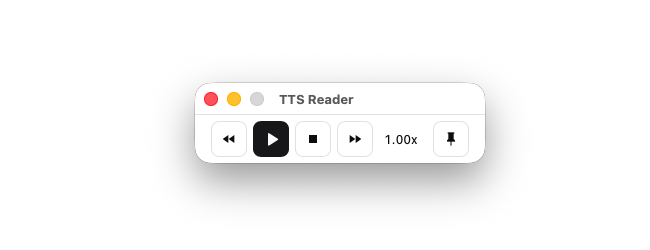
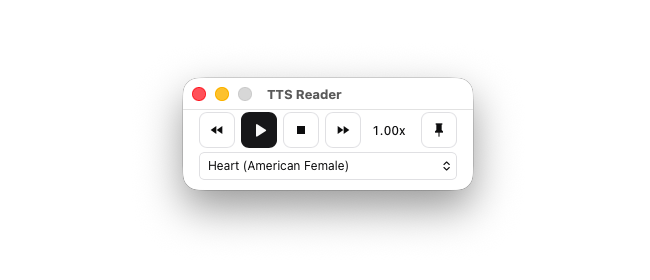
chore: update md files

Changed region(s): [[0.2769, 0.308, 0.7692, 0.7], [0.3077, 0.252, 0.6769, 0.28], [0.5846, 0.532, 0.6462, 0.588]]

diff --git a/README.md b/README.md
@@ -98,6 +98,44 @@ Available voices:
 - **British Female**: Alice, Emma, Isabella, Lily
 - **British Male**: Daniel, Fable, George, Lewis
 
+## Voices/Samples
+
+
+> Life is like a box of chocolates. You never know what you're gonna get.
+
+
+| Name         | Nationality | Gender | Sample                                                                                                                                  |
+| ------------ | ----------- | ------ | --------------------------------------------------------------------------------------------------------------------------------------- |
+| **af_heart** | American    | Female | <audio controls src="https://cdn-uploads.huggingface.co/production/uploads/61b253b7ac5ecaae3d1efe0c/S_9tkA75BT_QHKOzSX6S-.wav"></audio> |
+| af_alloy     | American    | Female | <audio controls src="https://cdn-uploads.huggingface.co/production/uploads/61b253b7ac5ecaae3d1efe0c/wiZ3gvlL--p5pRItO4YRE.wav"></audio> |
+| af_aoede     | American    | Female | <audio controls src="https://cdn-uploads.huggingface.co/production/uploads/61b253b7ac5ecaae3d1efe0c/Nv1xMwzjTdF9MR8v0oEEJ.wav"></audio> |
+| af_bella     | American    | Female | <audio controls src="https://cdn-uploads.huggingface.co/production/uploads/61b253b7ac5ecaae3d1efe0c/sWN0rnKU6TlLsVdGqRktF.wav"></audio> |
+| af_jessica   | American    | Female | <audio controls src="https://cdn-uploads.huggingface.co/production/uploads/61b253b7ac5ecaae3d1efe0c/2Oa4wITWAmiCXJ_Q97-7R.wav"></audio> |
+| af_kore      | American    | Female | <audio controls src="https://cdn-uploads.huggingface.co/production/uploads/61b253b7ac5ecaae3d1efe0c/AOIgyspzZWDGpn7oQgwtu.wav"></audio> |
+| af_nicole    | American    | Female | <audio controls src="https://cdn-uploads.huggingface.co/production/uploads/61b253b7ac5ecaae3d1efe0c/EY_V2OGr-hzmtTGrTCTyf.wav"></audio> |
+| af_nova      | American    | Female | <audio controls src="https://cdn-uploads.huggingface.co/production/uploads/61b253b7ac5ecaae3d1efe0c/X-xdEkx3GPlQG5DK8Gsqd.wav"></audio> |
+| af_river     | American    | Female | <audio controls src="https://cdn-uploads.huggingface.co/production/uploads/61b253b7ac5ecaae3d1efe0c/ZqaV2-xGUZdBQmZAF1Xqy.wav"></audio> |
+| af_sarah     | American    | Female | <audio controls src="https://cdn-uploads.huggingface.co/production/uploads/61b253b7ac5ecaae3d1efe0c/xzoJBl1HCvkE8Fl8Xu2R4.wav"></audio> |
+| af_sky       | American    | Female | <audio controls src="https://cdn-uploads.huggingface.co/production/uploads/61b253b7ac5ecaae3d1efe0c/ubebYQoaseyQk-jDLeWX7.wav"></audio> |
+| am_adam      | American    | Male   | <audio controls src="https://cdn-uploads.huggingface.co/production/uploads/61b253b7ac5ecaae3d1efe0c/tvauhDVRGvGK98I-4wv3H.wav"></audio> |
+| am_echo      | American    | Male   | <audio controls src="https://cdn-uploads.huggingface.co/production/uploads/61b253b7ac5ecaae3d1efe0c/qy_KuUB0hXsu-u8XaJJ_Z.wav"></audio> |
+| am_eric      | American    | Male   | <audio controls src="https://cdn-uploads.huggingface.co/production/uploads/61b253b7ac5ecaae3d1efe0c/JhqPjbpMhraUv5nTSPpwD.wav"></audio> |
+| am_fenrir    | American    | Male   | <audio controls src="https://cdn-uploads.huggingface.co/production/uploads/61b253b7ac5ecaae3d1efe0c/c0R9caBdBiNjGUUalI_DQ.wav"></audio> |
+| am_liam      | American    | Male   | <audio controls src="https://cdn-uploads.huggingface.co/production/uploads/61b253b7ac5ecaae3d1efe0c/DFHvulaLeOjXIDKecvNG3.wav"></audio> |
+| am_michael   | American    | Male   | <audio controls src="https://cdn-uploads.huggingface.co/production/uploads/61b253b7ac5ecaae3d1efe0c/IPKhsnjq1tPh3JmHH8nEg.wav"></audio> |
+| am_onyx      | American    | Male   | <audio controls src="https://cdn-uploads.huggingface.co/production/uploads/61b253b7ac5ecaae3d1efe0c/ov0pFDfE8NNKZ80LqW6Di.wav"></audio> |
+| am_puck      | American    | Male   | <audio controls src="https://cdn-uploads.huggingface.co/production/uploads/61b253b7ac5ecaae3d1efe0c/MOC654sLMHWI64g8HWesV.wav"></audio> |
+| am_santa     | American    | Male   | <audio controls src="https://cdn-uploads.huggingface.co/production/uploads/61b253b7ac5ecaae3d1efe0c/LzA6JmHBvQlhOviy8qVfJ.wav"></audio> |
+| bf_alice    | British     | Female | <audio controls src="https://cdn-uploads.huggingface.co/production/uploads/61b253b7ac5ecaae3d1efe0c/9mnYZ3JWq7f6U12plXilA.wav"></audio> |
+| bf_emma     | British     | Female | <audio controls src="https://cdn-uploads.huggingface.co/production/uploads/61b253b7ac5ecaae3d1efe0c/_fvGtKMttRI0cZVGqxMh8.wav"></audio> |
+| bf_isabella | British     | Female | <audio controls src="https://cdn-uploads.huggingface.co/production/uploads/61b253b7ac5ecaae3d1efe0c/VzlcJpqGEND_Q3duYnhiu.wav"></audio> |
+| bf_lily     | British     | Female | <audio controls src="https://cdn-uploads.huggingface.co/production/uploads/61b253b7ac5ecaae3d1efe0c/qZCoartohiRlVamY8Xpok.wav"></audio> |
+| bm_daniel   | British     | Male   | <audio controls src="https://cdn-uploads.huggingface.co/production/uploads/61b253b7ac5ecaae3d1efe0c/Eb0TLnLXHDRYOA3TJQKq3.wav"></audio> |
+| bm_fable    | British     | Male   | <audio controls src="https://cdn-uploads.huggingface.co/production/uploads/61b253b7ac5ecaae3d1efe0c/NT9XkmvlezQ0FJ6Th5hoZ.wav"></audio> |
+| bm_george   | British     | Male   | <audio controls src="https://cdn-uploads.huggingface.co/production/uploads/61b253b7ac5ecaae3d1efe0c/y6VJbCESszLZGupPoqNkF.wav"></audio> |
+| bm_lewis    | British     | Male   | <audio controls src="https://cdn-uploads.huggingface.co/production/uploads/61b253b7ac5ecaae3d1efe0c/RlB5BRvLt-IFvTjzQNxCh.wav"></audio> |
+
+
 ## License
 
 MIT
